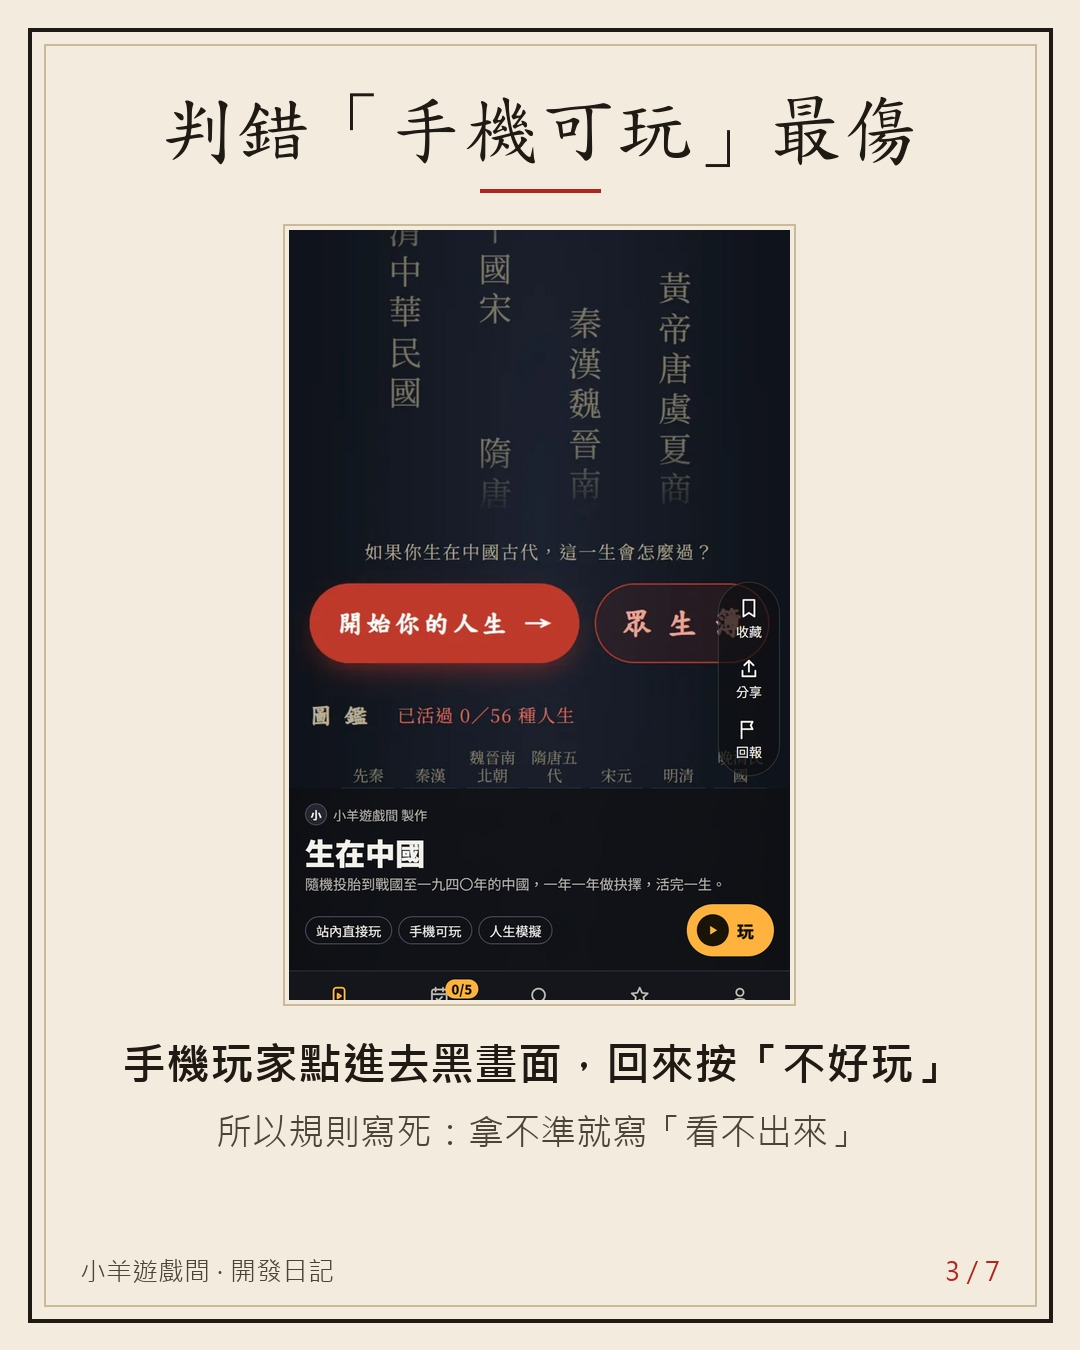
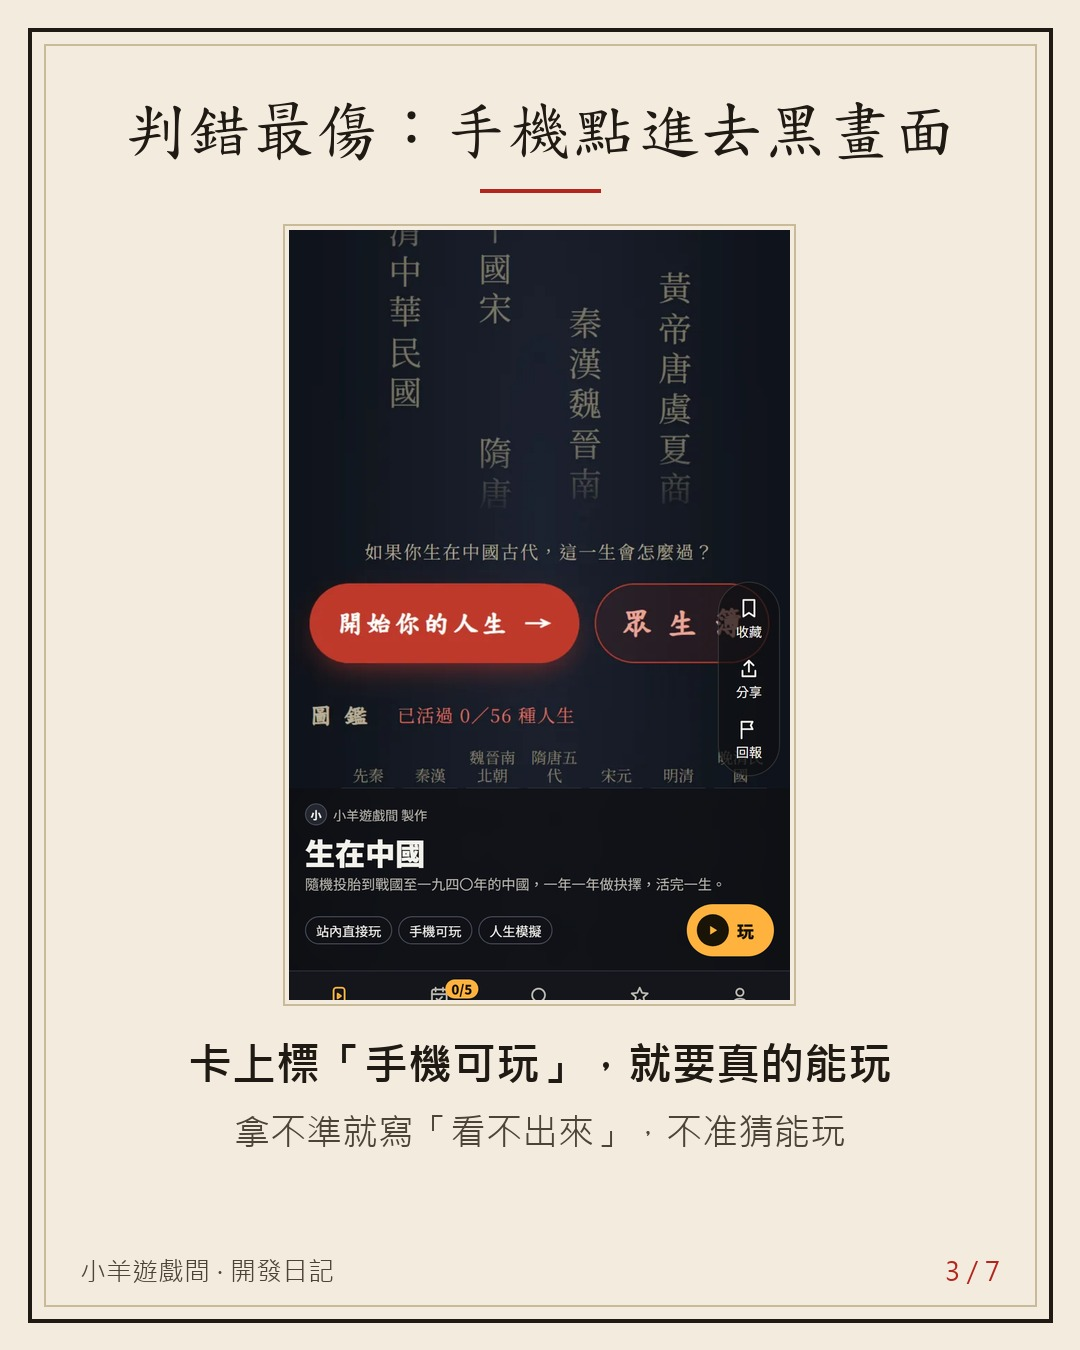
vault backup: 2026-11-02 20:08:03

Changed region(s): [[0.1222, 0.7467, 0.8556, 0.8711], [0.1222, 0.0622, 0.8861, 0.1244]]

diff --git a/Projects/auto promotion/posts/34.md b/Projects/auto promotion/posts/34.md
@@ -5,14 +5,14 @@ game: hub
 topic: "小羊遊戲間：這款手機能玩嗎？——人看過的 91 款，全部猜「手機能玩」對 87、AI 看截圖對 86（一致率會獎勵偷懶，另加「只能電腦的 3 款要全抓到」）；自動點擊試點 8 款對 3 → 手機、電腦各截一張由 AI 親眼看；判錯 both 代價最高 → 拿不準寫 unsure；4388.fun 熱門榜條款不准大量抓 → 每 10 秒一頁、約 920 頁、約 2.5 小時，名稱介紹從作者頁面自己寫；900 候選上 597（98→695），第三批 1,117 上 817（擋 61 內容、24 看不出），owner「每個遊戲都要以手機和桌機模式一起檢查」；10/30 開工到 11/2 共 1,513 款：兩者 966、只能電腦 523、只能手機 19、看不出 5"
 status: 待發
 created: 2026-11-03 12:40
-score:
+score: 8.5
 ---
 # 全部猜「手機能玩」，比 AI 認真看還準？
 
 ## Threads
 ### 1
-人看過的 91 款網頁遊戲，問一個問題：這款手機能玩嗎？
-
+這款網頁遊戲，手機能玩嗎？
+拿人看過的 91 款來考：
 ・閉著眼全部猜「能」：對 87 款
 ・AI 一款一款打開、看截圖：對 86 款
 
@@ -28,13 +28,14 @@ score:
 判錯它們代價最高——手機玩家點進去黑畫面，回來按「不好玩」，扣的是作者的分。
 
 所以驗收多加一條：人判「只能用電腦」的那 3 款，一款都不能漏。
+測試時故意把這 3 款改成「能玩」，驗收馬上被抓包：「只能電腦只抓到 0 款」。
 規則也寫死：拿不準就寫「看不出來」，不准猜「能玩」。
 ![[34/03.jpg]]
 ### 3
 其實第一招更慘：讓程式自己點點看能不能玩。
 試 8 款，只對 3 款 orz
 
-後來改成：每款用手機（390×844、觸控）和電腦各開一次、各截一張圖，加上頁面訊號（有沒有註冊觸控、canvas 多大、有沒有寫 desktop only），由 AI 親眼看圖判。訊號跟截圖打架，以截圖為準。
+後來改成：每款用手機（390×844、觸控）和電腦各開一次、各截一張圖，加上頁面訊號（觸控、canvas 大小、頁面文字），由 AI 親眼看圖判。訊號跟截圖打架，以截圖為準。
 
 11/1 我又補一句：「下次一開始每個遊戲都要以手機和桌機模式一起檢查」。現在手機、電腦各判一次，手機看不出來，不影響電腦那邊。
 ![[34/02.jpg]]
@@ -48,7 +49,11 @@ score:
 判完不會自動上架。AI 把建議做成一頁私人審核頁，附截圖，上架是我按的。
 
 ・第一輪 900 款候選，上了 597 款：首頁從 98 款變 695 款
-・第三批 1,117 款（熱門榜第 1,001–2,000 名，加上 Threads 上找到的 117 款），我按了 902 款，再擋掉 61 款（加密貨幣宣傳、仿登入頁、商店頁、根本不是遊戲）和 24 款看不出能不能玩，上 817 款
+・後來又一批 1,117 款（熱門榜第 1,001–2,000 名，加上 Threads 上找到的 117 款）：
+　我按了 902 款
+　再擋掉 61 款：加密貨幣宣傳、仿登入頁、商店頁、根本不是遊戲
+　24 款看不出能不能玩，先不上
+　最後上 817 款
 
 10/30 開工，11/2 變成 1,513 款。
 ![[34/05.jpg]]
@@ -62,7 +67,7 @@ score:
 學到的是：一個看起來很高的命中率，先問「真的嗎？」，拿「全部猜同一個答案」比一下。比不贏，就是還不會判。
 
 你都用手機還是電腦玩網頁遊戲？留言說一下，順便說一款你覺得該收進來的。
-追蹤小羊遊戲間，看這間遊戲間接下來怎麼長。
+追蹤小羊遊戲間，那 5 款看不出來的，判出來我再回報。
 ![[34/06.jpg]]
 ![[34/07.jpg]]
 ### 連結
@@ -73,13 +78,13 @@ score:
 
 人看過的 91 款網頁遊戲：全部猜「能」對 87 款，AI 一款一款看截圖對 86 款。偷懶的贏了 XD
 
-命中率高不代表會判。真正難的是手機打開黑畫面、要鍵盤的那幾款，判錯最傷。所以加一條：人判只能用電腦的 3 款，一款都不能漏；拿不準就寫「看不出來」。
+讓程式自己點點看？試 8 款只對 3 款 orz 改成手機、電腦各截一張，AI 親眼看。
 
-讓程式自己點點看？試 8 款只對 3 款。改成手機、電腦各截一張，AI 親眼看，上架由我在審核頁按。
+命中率高不代表會判。真正難的是手機打開黑畫面、要鍵盤的那幾款，判錯最傷。所以加一條：人判只能用電腦的 3 款，一款都不能漏；拿不準就寫「看不出來」。上架由我在審核頁按。
 
 10/30 開工，11/2 收了 1,513 款：手機電腦都能玩 966、只能用電腦 523、只能用手機 19。
 
-你都用手機還是電腦玩網頁遊戲？👇 追蹤看小羊遊戲間怎麼長
+你都用手機還是電腦玩網頁遊戲？👇 追蹤看那 5 款看不出來的怎麼判
 
 連結在主頁
 #小羊遊戲間 #開發日記 #網頁遊戲 #獨立遊戲 #AI開發
@@ -94,11 +99,11 @@ score:
 🎯 偷懶的贏了
 拿人看過的 91 款來考：閉著眼全部猜「手機能玩」，對 87 款；AI 一款一款打開、看截圖，對 86 款 XD
 偷懶會贏，是因為大部分本來就能用手機玩。命中率高，不代表它會判。真正難的是少數那幾款：手機打開黑畫面、要鍵盤、Unity 跳出「不支援手機」。判錯它們代價最高——手機玩家點進去黑畫面，回來按「不好玩」，扣的是作者的分。
-所以驗收多加一條：人判「只能用電腦」的那 3 款，一款都不能漏。規則也寫死：拿不準就寫「看不出來」，不准猜「能玩」。
+所以驗收多加一條：人判「只能用電腦」的那 3 款，一款都不能漏；測試時故意把這 3 款改成「能玩」，驗收馬上被抓包：「只能電腦只抓到 0 款」。規則也寫死：拿不準就寫「看不出來」，不准猜「能玩」。
 
 🤖 第一招更慘
 一開始讓程式自己點點看能不能玩，試 8 款只對 3 款 orz
-後來改成每款用手機（390×844、觸控）和電腦各開一次、各截一張，加上頁面訊號（有沒有註冊觸控、canvas 多大、有沒有寫 desktop only），由 AI 親眼看圖判；訊號跟截圖打架，以截圖為準。11/1 我補了一句「下次一開始每個遊戲都要以手機和桌機模式一起檢查」，現在手機、電腦各判一次。
+後來改成每款用手機（390×844、觸控）和電腦各開一次、各截一張，加上頁面訊號（觸控、canvas 大小、頁面文字），由 AI 親眼看圖判；訊號跟截圖打架，以截圖為準。11/1 我補了一句「下次一開始每個遊戲都要以手機和桌機模式一起檢查」，現在手機、電腦各判一次。
 
 🐢 名單從哪裡來
 網頁遊戲目錄 4388.fun 的熱門榜。它的條款不准大量自動抓，所以只拿清單（排名和作者網址），每 10 秒才開一頁，前 1,000 名約 920 頁、2.5 小時。名稱、介紹、作者一律從作者自己的網頁拿、我們自己寫，不抄目錄的。
@@ -106,7 +111,7 @@ score:
 ✅ 上架是我按的
 判完不會自動上架。AI 把建議做成一頁私人審核頁，附截圖，我一款一款按。
 ・第一輪 900 款候選上了 597 款，首頁從 98 款變 695 款
-・第三批 1,117 款（熱門榜第 1,001–2,000 名＋Threads 上找到的 117 款），我按了 902 款，再擋掉 61 款（加密貨幣宣傳、仿登入頁、商店頁、根本不是遊戲）和 24 款看不出能不能玩，上 817 款
+・後來又一批 1,117 款（熱門榜第 1,001–2,000 名＋Threads 上找到的 117 款），我按了 902 款，再擋掉 61 款（加密貨幣宣傳、仿登入頁、商店頁、根本不是遊戲）和 24 款看不出能不能玩，上 817 款
 10/30 開工，11/2 變成 1,513 款。
 
 📱 1,513 款裡
@@ -117,7 +122,7 @@ score:
 
 學到的是：一個看起來很高的命中率，先問「真的嗎？」，拿「全部猜同一個答案」比一下。比不贏，就是還不會判。
 
-❓ 你都用手機還是電腦玩網頁遊戲？留言說一下，順便推薦一款你覺得該收進來的。追蹤小羊遊戲間，看這間遊戲間接下來怎麼長。
+❓ 你都用手機還是電腦玩網頁遊戲？留言說一下，順便推薦一款你覺得該收進來的。追蹤小羊遊戲間，那 5 款看不出來的，判出來我再回報。
 
 1,513 款點了就玩的網頁小遊戲，卡上標好手機能不能玩 👉 https://games.csiesheep.com/
 
@@ -130,11 +135,15 @@ score:
 - design.md D55（owner 2026-11-01 原話「下次一開始每個遊戲都要以手機和桌機模式一起檢查」）；D50：A1 上架 597 款，上架後 feed 695 款（原 98）；D60：第三批 1,117 款，審核頁按上架 902，排除內容疑慮 61（加密貨幣宣傳、仿登入頁、商店頁、不是遊戲等）與看不出能不能玩 24，上 817 款，上架日 2026-11-02；D53／D54：4388 第 1001–2000 名＋Threads 117 款
 - hub repo 首個 commit 7383c46 2026-10-29 21:13 PDT ＝ 台灣 10/30 12:13
 - data/games.csv（origin/main）listed 1,513：device both 966、desktop 523、mobile 19、unsure 5；線上 https://games.csiesheep.com/sitemap.xml 2026-11-03 有 1,513 個 /g/ 頁
+- process-game SKILL.md 裝置判準：desktop 例「Unity 的『WebGL 不支援手機』；要鍵盤滑鼠（WASD、方向鍵、Press any key）」；訊號含觸控／pointer 事件、canvas 大小、頁面文字；「手機看不出來不影響電腦的判定」；「4388 只提供清單：rank、id、作者網址、遊玩次數」
+- design.md §9.6：審核頁「只有 owner 看得到，含候選截圖」；§4.1：「一款一畫面，往上滑換下一款」；D63 owner 原話「不知道玩什麼？滑滑滑，不喜歡就滑下一款」；§9.3 標題「4388 前 1000 款」
 - Obsidian Projects/game hub/game hub research.md §1：4388.fun 是網頁遊戲連結目錄
 - 圖：02–06 數字卡；03 為 games.csiesheep.com/g/china_life 手機畫面（卡上「手機可玩」標籤），07 為 /search?q=做菜（65 款），2026-11-03 headless Chrome 帶 internal=1 截圖
 
 ## 打磨紀錄
 | 回合 | 1 | 2 | 3 | 4 | 5 | 6 | 7 | 8 | 9 | 10 | 平均 | 主要修改 |
 |---|---|---|---|---|---|---|---|---|---|---|---|---|
+| 1 | 8 | 8 | 7 | 8 | 8 | 7 | 7 | 8 | 8 | 10 | 7.9 | 未達標：鉤子提前到第一行；補證偽結果「只能電腦只抓到 0 款」；「第三批」改「後來又一批」並拆長句；追蹤理由改「那 5 款判出來再回報」；IG 文字順序對齊卡 2、3；卡 3 標題改「判錯最傷：手機點進去黑畫面」；評審標的無來源句其實出自 process-game SKILL.md／design.md，補進 Sources |
+| 2 | 9 | 9 | 8 | 8 | 8 | 9 | 8 | 8 | 8 | 10 | 8.5 | 通過；選做小修已改：卡 5 對齊「後來又一批」、「紅」改「驗收馬上被抓包」、第 3 則訊號括號縮短 |
 
 ## 發文紀錄

diff --git a/Projects/auto promotion/2026-11-03.md b/Projects/auto promotion/2026-11-03.md
@@ -87,3 +87,4 @@
 | 11:48 | promo-post-devnote-1130 | 完成 | #27 三平台都發了。帳號：開始 IG/Threads 都在 csiesheep.games、FB 在個人檔案；結束 IG/Threads 留在 csiesheep.games，FB 切回個人檔案 |  |
 | 11:59 | promo-producer | 開始 | 存貨：卡 2、生在中國 Reel 3、鬼唱詩 4（待發 3／待審 1／要修改 0）、貼文 熱門 4／開發日記 3；本輪寫一篇開發日記 |  |
 | 12:02 | promo-producer | 進度 | 開發日記 #34 初稿完成：小羊遊戲間「全部猜手機能玩 87 vs AI 看圖 86」，7 張卡已出圖；送評審 |  |
+| 12:04 | promo-producer | 完成 | 開發日記 #34「全部猜「手機能玩」，比 AI 認真看還準？」（小羊遊戲間判手機能不能玩、98→1,513 款）待發，posts/34，評分 7.9→8.5；存貨：卡 2、生在中國 Reel 3、鬼唱詩 4（待發 3／待審 1／要修改 0）、貼文 熱門 4／開發日記 4，全滿 |  |
